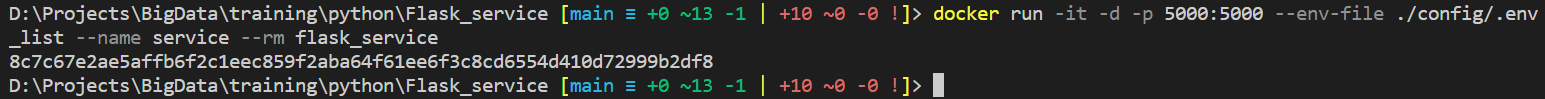
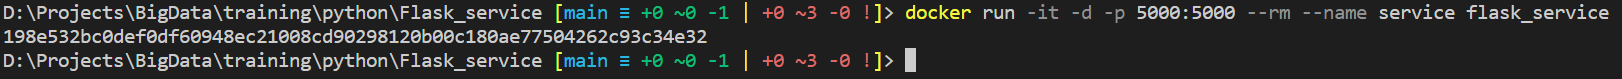
Updated docker

Changed region(s): [[0.0, 0.0506, 1.0, 0.9873]]

diff --git a/python/Flask_service/readme.md b/python/Flask_service/readme.md
@@ -47,7 +47,7 @@ docker build -t flask_service .
 ![img.png](resources/img.png)
 Run container based on this image:
 ```
-docker run -it -d -p 5000:5000 --env-file ./config/.env_list --name service --rm flask_service  
+docker run -it -d -p 5000:5000 --rm --name service flask_service
 ```
 ![img_1.png](resources/img_1.png)
 
@@ -65,7 +65,7 @@ docker stop service
 ### <a name="Download_from_Docker_Hub"></a>  Download from Docker Hub
 Run this command in your terminal:
 ```
-docker run -it -d -p 5000:5000 --env-file ./config/.env_list --name service --rm kvtim/flask_service  
+docker run -it -d -p 5000:5000 --name service --rm kvtim/flask_service  
 ```
 Docker will download the image and run the container
 ![img_5.png](resources/img_5.png)
